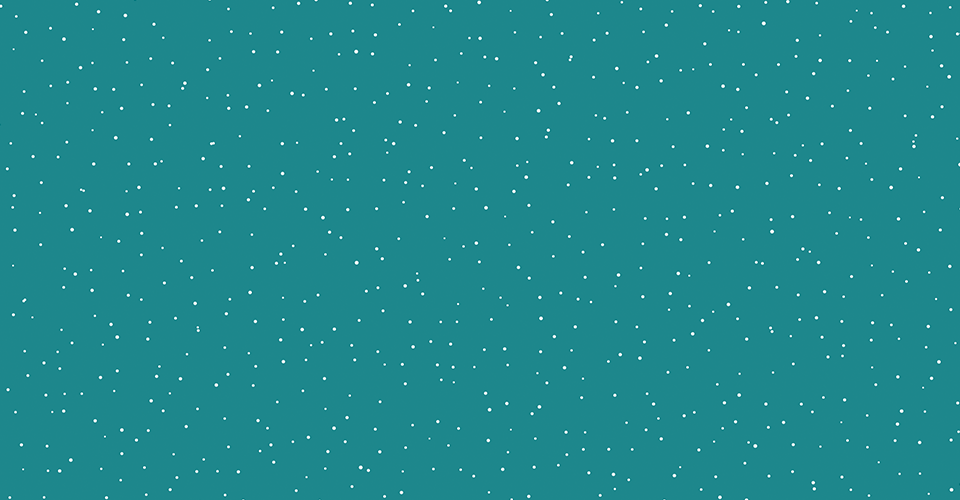
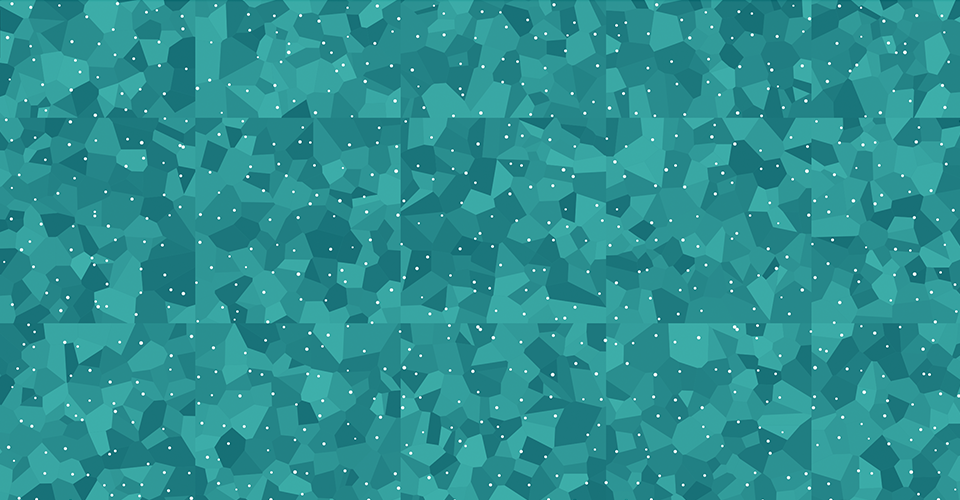
Initial code for drawing Voronoi diagram mountains background

diff --git a/drawgrid2.js b/drawgrid2.js
@@ -1,5 +1,7 @@
 var max_movement = 32;
 var grid_size = 32;
+var mt_count = 32;
+var line_width = 8;
 
 function getOffsetPoint(p5, x, y, z, noiseScale) {
   var noiseX = p5.noise(x * noiseScale,
@@ -16,7 +18,7 @@ function snap_to_grid(num, gsize) {
 }
 
 /*
- * This is the funciton to implement to make your own abstract design.
+ * This is the function to implement to make your own abstract design.
  *
  * arguments:
  * p5: the p5.js object - all draw commands should be prefixed with this object
@@ -34,11 +36,91 @@ function drawGrid(p5, x1, x2, y1, y2, z, zoom) {
   var min_y = snap_to_grid(y1 - max_shift, grid_size);
   var max_y = snap_to_grid(y2 + max_shift + grid_size, grid_size);
 
-  var bgColor = [30,135,140],
-      ellipseColor = [255,255,255];
+  // var bgColor = [30,135,140],
+  var ellipseColor = [255,255,255],
+      mtColor1 = p5.color(62,175,171),
+      mtColor2 = p5.color(23,111,118),
+      bgColor = p5.lerpColor(mtColor1,mtColor2,0.5);
 
   p5.background(bgColor);
-  p5.fill(ellipseColor);
+
+  // for(var x=min_x; x<max_x; x+=mt_size) {
+  //   for(var y=min_y; y<max_y; y+=mt_size) {
+  //     var shift_point = getOffsetPoint(p5, x, y, z, 5);
+  //     var x_pos = p5.map(shift_point[0], x1, x2, 0, 256);
+  //     var y_pos = p5.map(shift_point[1], y1, y2, 0, 256);
+  //
+  //     var c_p00 = p5.map(0, x1, x2, 0, 256);
+  //     var c_plwidth = p5.map(line_width, x1, x2, 0, 256);
+  //     var cur_line_width = c_plwidth - c_p00;
+  //
+  //     // draw mosaic mountains
+  //     var mtVal = p5.noise(x,y,z+10);
+  //     var mtColor = p5.lerpColor(mtColor1,mtColor2,mtVal);
+  //     p5.stroke(mtColor);
+  //     p5.strokeWeight(cur_line_width);
+  //
+  //     p5.fill(mtColor);
+  //
+  //     // if(zoom >= 3) {
+  //       var shift_point2 = getOffsetPoint(p5, x+grid_size, y, z, 5);
+  //       var x_pos2 = p5.map(shift_point2[0], x1, x2, 0, 256);
+  //       var y_pos2 = p5.map(shift_point2[1], y1, y2, 0, 256);
+  //       p5.line(x_pos, y_pos, x_pos2, y_pos2);
+  //
+  //       var shift_point2 = getOffsetPoint(p5, x, y+grid_size, z, 5);
+  //       var x_pos2 = p5.map(shift_point2[0], x1, x2, 0, 256);
+  //       var y_pos2 = p5.map(shift_point2[1], y1, y2, 0, 256);
+  //       p5.line(x_pos, y_pos, x_pos2, y_pos2);
+  //
+  //       // p5.triangle(x_pos, y_pos, x_pos2, y_pos2, x_pos3, y_pos3);
+  //     // }
+  //
+  //   }
+  // }
+
+  ///////////////////////////////////////////
+
+  if(zoom >= 3) {
+    // randomly generate vertices
+    var vertices = d3.range(100).map(function(d) {
+      return [p5.random(0,256), p5.random(0,256)];
+    });
+
+    // using d3.js voronoi layout to calculate voronoi polygons
+    var voronoi = d3.geom.voronoi()
+      .clipExtent([
+        [0, 0],
+        [256, 256]
+      ]);
+
+    // create polygons using d3.js voronoi diagram
+    var polygons = voronoi(vertices);
+
+    // draw polygons
+    for(var j=0; j<polygons.length; j++) {
+      var apolygon = polygons[j];
+
+      // pick a random color
+      // var mtVal = p5.noise(x,y,z+10);
+      var mtVal = p5.random(0,1);
+      var mtColor = p5.lerpColor(mtColor1,mtColor2,mtVal);
+      p5.fill(mtColor);
+      p5.noStroke();
+
+      p5.beginShape();
+      for(var k=0; k<apolygon.length; k++) {
+        var v = apolygon[k];
+        p5.vertex(v[0], v[1]);
+      }
+      p5.endShape(p5.CLOSE);
+    }
+  }
+
+  ///////////////////////////////////////////
+
+
+  // draw stars
   for(var x=min_x; x<max_x; x+=grid_size) {
     for(var y=min_y; y<max_y; y+=grid_size) {
       var shift_point = getOffsetPoint(p5, x, y, z, 0.1);
@@ -52,7 +134,11 @@ function drawGrid(p5, x1, x2, y1, y2, z, zoom) {
       var cur_ball_radius = c_pball - c_p00;
 
       p5.noStroke();
+      p5.fill(ellipseColor);
       p5.ellipse(x_pos, y_pos, cur_ball_radius);
     }
   }
+
+
+
 }

diff --git a/example_fence2.js b/example_fence2.js
@@ -44,7 +44,7 @@ function drawPetals(p5, x1, x2, y1, y2, pos_x, pos_y, rad1, rad2) {
     var offset = offsets[i];
     var pixel_x = p5.map(pos_x+0.5*rad1*offset[0], x1, x2, 0, 256);
     var pixel_y = p5.map(pos_y+0.5*rad1*offset[1], y1, y2, 0, 256);
-    p5.ellipse(pixel_x, pixel_y, pixel_radius);    
+    p5.ellipse(pixel_x, pixel_y, pixel_radius);
   }
 }
 
@@ -70,7 +70,7 @@ function drawStamens(p5, x1, x2, y1, y2, pos_x, pos_y, rad1, rad2, drawLines) {
       p5.line(pixel_x, pixel_y-pixel_radius, pixel_x, pixel_y+pixel_radius);
       p5.strokeWeight(0);
       p5.ellipse(pixel_x, pixel_y, pixel_radius / 12);
-    }  
+    }
   }
 }
 

diff --git a/index.html b/index.html
@@ -21,6 +21,7 @@
 <body>
   <div id="map"></div>
 
+  <script src="http://d3js.org/d3.v3.min.js"></script>
   <script src="http://cdnjs.cloudflare.com/ajax/libs/p5.js/0.5.14/p5.js"></script>
   <script src="http://cdnjs.cloudflare.com/ajax/libs/p5.js/0.5.14/addons/p5.dom.js"></script>
   <script src="https://unpkg.com/leaflet@1.2.0/dist/leaflet.js"></script>

diff --git a/README.md b/README.md
@@ -12,3 +12,9 @@
 I've adjusted the example_fence.js code to fit my stars design for the first zoom level.
 Initially I struggled with understanding how the design would be translated to pixel space, but talking to Tom helped me figure out how I could get my design to work.
 I think I will fiddle around with how many 'stars' are drawn initially, and how they are grouped, as I think it would work better in clusters. But for now, I am happy with the progress.
+
+### Part 3
+
+I've added some initial code for the Voronoi diagram/moutain background pattern. It's using the d3.js library to calculate the vertices and how the cells should be drawn, but p5.js to actually draw the shapes.
+I think what I want the code to do is actually take the stars as the vertices points and then draw the cells around each of the stars - each mountain will have it's own 'star', which then means when it is zoomed in, each set of columns will be contained inside it's own mountain.
+I still have a lot to fiddle around with, especially cause I'm still trying to get my head around the whole 'drawing so that when it zooms in it doesn't redraw' thing. 
